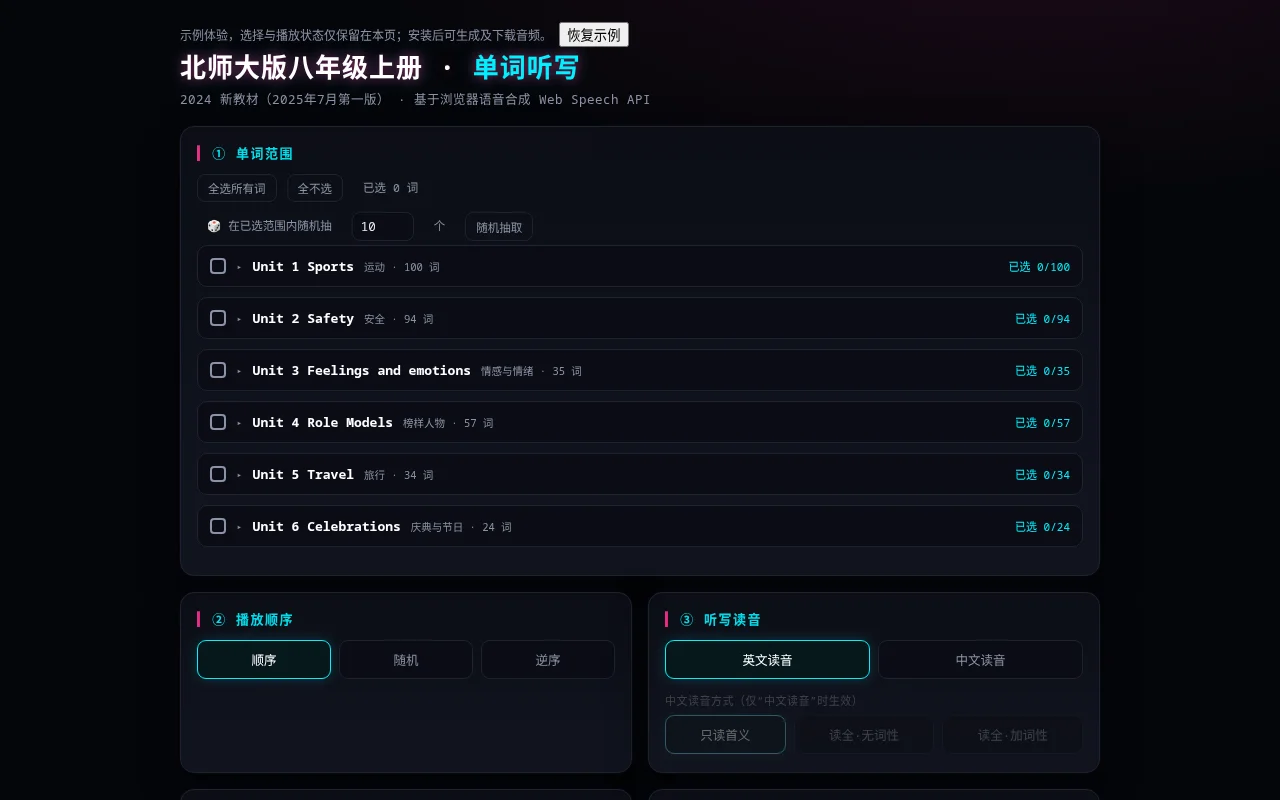
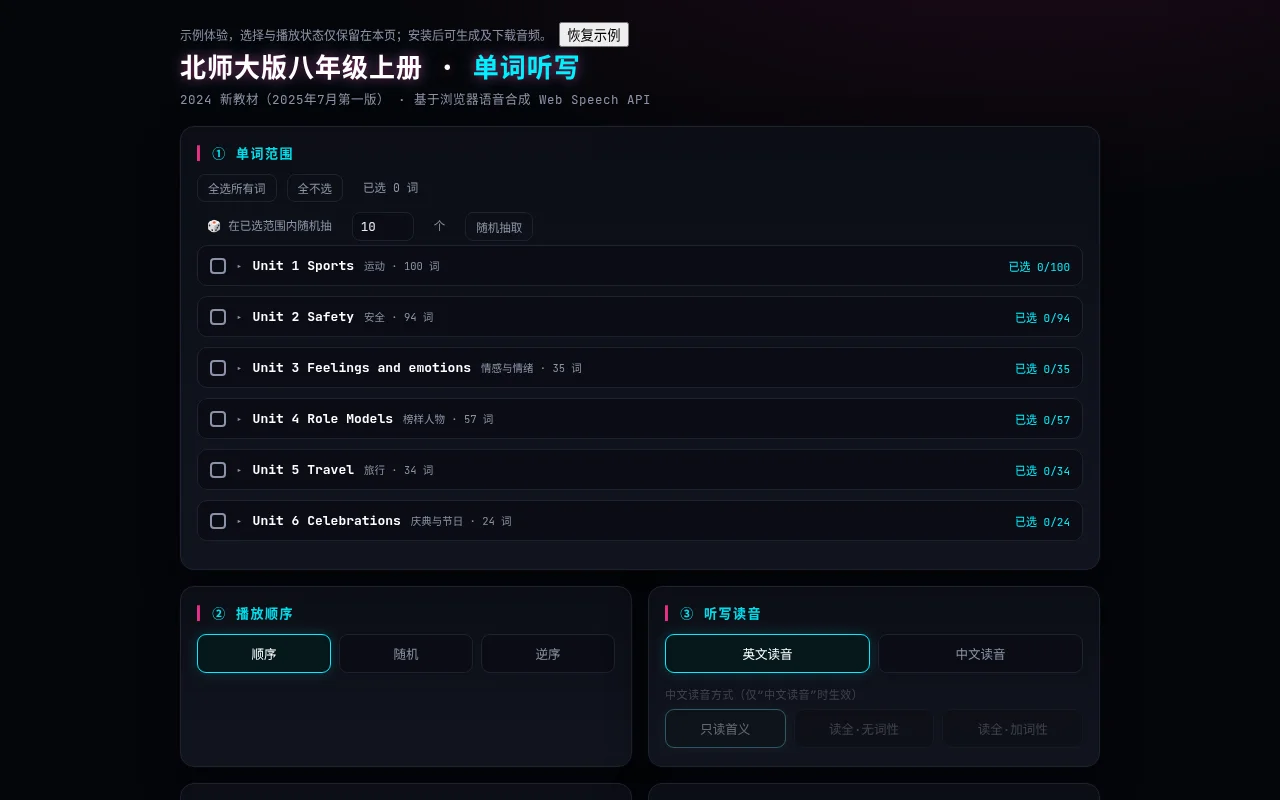
Match dictation typography

diff --git a/wb1024-c272-b7ca9910/showcase/preview.html b/wb1024-c272-b7ca9910/showcase/preview.html
@@ -6,7 +6,7 @@
 <title>北师大版八年级上册 · 单词听写</title>
 
 
-<style>
[1 lines of base64/hex data omitted]
   :root{
     --bg:#05060a;
     --panel:#0c0e16;

diff --git a/wb1024-c272-b7ca9910/src/app.js b/wb1024-c272-b7ca9910/src/app.js
@@ -1,3 +1,4 @@
+const font=document.createElement("style");font.textContent=`@font-face{font-family:"JetBrains Mono";font-style:normal;font-weight:400 800;font-display:swap;src:url(${new URL("../jetbrains-mono.woff2",import.meta.url).href}) format("woff2")}`;document.head.append(font);
 const style=document.createElement("style");style.textContent="\n  :root{\n    --bg:#05060a;\n    --panel:#0c0e16;\n    --panel2:#11141f;\n    --pink:#FF2E93;\n    --cyan:#00F0FF;\n    --line:#1d2230;\n    --txt:#e8ecf5;\n    --dim:#8a93a8;\n    --ok:#39ff88;\n  }\n  *{box-sizing:border-box}\n  html,body{margin:0;padding:0;background:var(--bg);color:var(--txt);\n    font-family:\"JetBrains Mono\",ui-monospace,SFMono-Regular,Menlo,Consolas,monospace;}\n  body{\n    background:\n      radial-gradient(1200px 600px at 80% -10%, rgba(255,46,147,.12), transparent 60%),\n      radial-gradient(1000px 500px at -10% 110%, rgba(0,240,255,.10), transparent 60%),\n      var(--bg);\n    min-height:100vh;padding:22px 14px 60px;\n  }\n  .wrap{max-width:920px;margin:0 auto;}\n  h1{\n    font-size:26px;font-weight:800;letter-spacing:1px;margin:0 0 4px;\n    color:#fff;text-shadow:0 0 12px rgba(255,46,147,.55),0 0 22px rgba(0,240,255,.25);\n  }\n  h1 .accent{color:var(--cyan);}\n  .sub{color:var(--dim);font-size:12.5px;margin-bottom:18px;letter-spacing:.5px}\n  .panel{\n    background:linear-gradient(180deg,var(--panel),var(--panel2));\n    border:1px solid var(--line);border-radius:14px;padding:16px 16px 18px;margin-bottom:16px;\n    box-shadow:0 0 0 1px rgba(255,255,255,.02), 0 14px 40px rgba(0,0,0,.45);\n  }\n  .panel h2{\n    font-size:13px;font-weight:700;letter-spacing:1.5px;color:var(--cyan);\n    margin:0 0 12px;text-transform:uppercase;opacity:.92;\n  }\n  .panel h2::before{content:\"▍\";color:var(--pink);margin-right:6px}\n  /* units + 单词级选择 */\n  .units{display:block;margin-top:4px}\n  .unit-block{border:1px solid var(--line);border-radius:10px;margin-bottom:10px;background:#0a0c14;overflow:hidden}\n  .unit-head{display:flex;align-items:center;gap:10px;padding:11px 12px;cursor:pointer;user-select:none;transition:.15s}\n  .unit-head:hover{background:#0e1119}\n  .unit-head .tri{width:16px;height:16px;border:2px solid var(--dim);border-radius:4px;flex:0 0 auto;position:relative;cursor:pointer;transition:.12s}\n  .unit-head .tri.on{border-color:var(--pink);background:var(--pink)}\n  .unit-head .tri.on::after{content:\"\";position:absolute;left:4px;top:1px;width:5px;height:9px;border:solid #05060a;border-width:0 2px 2px 0;transform:rotate(42deg)}\n  .unit-head .tri.some{border-color:var(--cyan);background:var(--cyan)}\n  .unit-head .tri.some::after{content:\"\";position:absolute;left:3px;top:6px;width:8px;height:2px;background:#05060a}\n  .unit-head .caret{color:var(--dim);font-size:11px;transition:transform .15s;flex:0 0 auto}\n  .unit-block.open .caret{transform:rotate(90deg)}\n  .unit-head .uname{font-size:13px;font-weight:700;color:#fff}\n  .unit-head .usub{color:var(--dim);font-size:10.5px}\n  .unit-head .ucount{margin-left:auto;color:var(--cyan);font-size:11px;white-space:nowrap}\n  .unit-body{display:none;padding:8px 12px 12px;border-top:1px solid var(--line)}\n  .unit-block.open .unit-body{display:block}\n  .wordgrid{display:grid;grid-template-columns:repeat(2,1fr);gap:5px 16px}\n  .w{display:flex;align-items:baseline;gap:7px;font-size:12px;cursor:pointer;padding:3px 4px;border-radius:6px;line-height:1.3}\n  .w:hover{background:#0e1119}\n  .w input{accent-color:var(--pink);flex:0 0 auto;margin-top:2px}\n  .w .we{color:var(--txt);font-weight:700;word-break:break-word}\n  .w .wz{color:var(--dim);font-size:10.5px;word-break:break-word}\n  @media(max-width:640px){.wordgrid{grid-template-columns:1fr}}\n  .row-actions{margin-top:10px;display:flex;gap:10px;flex-wrap:wrap}\n  .mini{\n    background:transparent;border:1px solid var(--line);color:var(--dim);font-family:inherit;\n    font-size:11.5px;padding:5px 10px;border-radius:8px;cursor:pointer;transition:.15s;\n  }\n  .mini:hover{color:var(--cyan);border-color:var(--cyan)}\n  /* segmented */\n  .seg{display:flex;flex-wrap:wrap;gap:8px}\n  .opt{\n    border:1px solid var(--line);background:#0a0c14;color:var(--dim);font-family:inherit;\n    font-size:12.5px;padding:9px 14px;border-radius:9px;cursor:pointer;transition:.15s;flex:1 1 auto;\n    text-align:center;min-width:84px;\n  }\n  .opt:hover{border-color:#2a3145;color:var(--txt)}\n  .opt.on{border-color:var(--cyan);color:#fff;background:#06181c;box-shadow:0 0 14px rgba(0,240,255,.18)}\n  .submode{margin-top:4px}\n  .submode.dim{opacity:.36;pointer-events:none;filter:grayscale(.5)}\n  .grid2{display:grid;grid-template-columns:1fr 1fr;gap:16px}\n  @media(max-width:640px){.grid2{grid-template-columns:1fr}}\n  label.fld{display:block;font-size:11px;color:var(--dim);margin:0 0 7px;letter-spacing:.5px}\n  select,input[type=range]{font-family:inherit}\n  select{\n    width:100%;background:#0a0c14;color:var(--txt);border:1px solid var(--line);\n    padding:9px 10px;border-radius:9px;font-size:13px;\n  }\n  .range-row{display:flex;align-items:center;gap:12px}\n  input[type=range]{flex:1;accent-color:var(--pink)}\n  .range-val{color:var(--cyan);font-weight:700;min-width:42px;text-align:right;font-size:13px}\n  /* stage */\n  .stage{\n    text-align:center;padding:26px 16px 22px;position:relative;overflow:hidden;\n  }\n  .counter{font-size:13px;color:var(--dim);letter-spacing:1px}\n  .counter b{color:var(--cyan);font-size:15px}\n  .bigword{\n    font-size:40px;font-weight:800;margin:14px 0 6px;color:#fff;min-height:48px;\n    text-shadow:0 0 16px rgba(0,240,255,.35);\n    word-break:break-word;\n  }\n  .bigword.zh{color:var(--pink);text-shadow:0 0 16px rgba(255,46,147,.4)}\n  .ans{\n    margin-top:6px;font-size:16px;color:var(--ok);min-height:22px;letter-spacing:.5px;\n  }\n  .ans .en{color:#fff;font-weight:700}\n  .ans .zh{color:var(--dim)}\n  .ans.hidden{visibility:hidden}\n  .cd{\n    margin-top:14px;font-size:12.5px;color:var(--dim);letter-spacing:1px;\n  }\n  .cd b{color:var(--pink);font-size:15px}\n  .bar{height:5px;background:#0a0c14;border:1px solid var(--line);border-radius:6px;margin-top:14px;overflow:hidden}\n  .bar > i{display:block;height:100%;width:0;background:linear-gradient(90deg,var(--cyan),var(--pink));transition:width .25s linear}\n  /* controls */\n  .ctrls{display:flex;flex-wrap:wrap;gap:10px;justify-content:center;margin-top:4px}\n  .btn{\n    font-family:inherit;font-size:13px;font-weight:700;letter-spacing:.5px;cursor:pointer;\n    border-radius:10px;padding:12px 16px;border:1px solid var(--line);background:#0a0c14;color:var(--txt);\n    transition:.15s;flex:1 1 auto;min-width:96px;\n  }\n  .btn:hover{border-color:var(--cyan);color:var(--cyan)}\n  .btn.primary{background:linear-gradient(180deg,var(--pink),#c81f73);border-color:var(--pink);color:#fff;\n    box-shadow:0 0 18px rgba(255,46,147,.35)}\n  .btn.primary:hover{color:#fff;filter:brightness(1.08)}\n  .btn:disabled{opacity:.4;cursor:not-allowed;border-color:var(--line);color:var(--dim)}\n  .status{text-align:center;color:var(--dim);font-size:12px;margin-top:12px;letter-spacing:1px}\n  .status b{color:var(--cyan)}\n  .warn{color:#ffcf5a;font-size:11.5px;margin-top:10px;line-height:1.5;display:none}\n  .foot{color:var(--dim);font-size:11px;text-align:center;margin-top:22px;line-height:1.7}\n  .foot code{color:var(--cyan)}\n";document.head.append(style);document.getElementById("app").innerHTML="\n<div class=\"wrap\">\n  <h1>北师大版八年级上册 · <span class=\"accent\">单词听写</span></h1>\n  <div class=\"sub\">2024 新教材（2025年7月第一版） · 基于浏览器语音合成 Web Speech API</div>\n\n  <!-- 设置 -->\n  <div class=\"panel\">\n    <h2>① 单词范围</h2>\n    <div class=\"row-actions\">\n      <button class=\"mini\" id=\"selAll\">全选所有词</button>\n      <button class=\"mini\" id=\"selNone\">全不选</button>\n      <span class=\"mini\" id=\"unitCount\" style=\"border:none;cursor:default\">已选 0 词</span>\n    </div>\n    <div class=\"row-actions\">\n      <span class=\"mini\" style=\"border:none;cursor:default\">🎲 在已选范围内随机抽</span>\n      <input type=\"number\" id=\"randN\" min=\"1\" max=\"322\" value=\"10\"\n             style=\"width:62px;background:#0a0c14;color:var(--txt);border:1px solid var(--line);\n                    border-radius:8px;padding:5px 8px;font-family:inherit;font-size:12.5px\">\n      <span class=\"mini\" style=\"border:none;cursor:default\">个</span>\n      <button class=\"mini\" id=\"randPick\">随机抽取</button>\n    </div>\n    <div class=\"units\" id=\"units\"></div>\n  </div>\n\n  <div class=\"grid2\">\n    <div class=\"panel\">\n      <h2>② 播放顺序</h2>\n      <div class=\"seg\" id=\"orderSeg\">\n        <div class=\"opt on\" data-v=\"seq\">顺序</div>\n        <div class=\"opt\" data-v=\"rand\">随机</div>\n        <div class=\"opt\" data-v=\"rev\">逆序</div>\n      </div>\n    </div>\n    <div class=\"panel\">\n      <h2>③ 听写读音</h2>\n      <div class=\"seg\" id=\"modeSeg\">\n        <div class=\"opt on\" data-v=\"en\">英文读音</div>\n        <div class=\"opt\" data-v=\"zh\">中文读音</div>\n      </div>\n      <div class=\"submode dim\" id=\"zhModeWrap\">\n        <label class=\"fld\" style=\"margin-top:13px\">中文读音方式（仅“中文读音”时生效）</label>\n        <div class=\"seg\" id=\"zhModeSeg\">\n          <div class=\"opt on\" data-v=\"orig\">只读首义</div>\n          <div class=\"opt\" data-v=\"full\">读全·无词性</div>\n          <div class=\"opt\" data-v=\"pos\">读全·加词性</div>\n        </div>\n      </div>\n    </div>\n  </div>\n\n  <div class=\"grid2\">\n    <div class=\"panel\">\n      <h2>④ 朗读遍数 / 停顿</h2>\n      <label class=\"fld\">每个词朗读几遍（默认 3 遍）</label>\n      <div class=\"range-row\">\n        <input type=\"range\" id=\"repeats\" min=\"1\" max=\"5\" step=\"1\" value=\"3\">\n        <span class=\"range-val\" id=\"repeatsVal\">3 遍</span>\n      </div>\n      <label class=\"fld\">重复朗读之间的停顿（默认 2 秒）</label>\n      <div class=\"range-row\">\n        <input type=\"range\" id=\"repeatGap\" min=\"0\" max=\"10\" step=\"1\" value=\"2\">\n        <span class=\"range-val\" id=\"repeatGapVal\">2 秒</span>\n      </div>\n      <label class=\"fld\">朗读后到下一条的等待（默认 3 秒）</label>\n      <div class=\"range-row\">\n        <input type=\"range\" id=\"interval\" min=\"1\" max=\"10\" step=\"1\" value=\"3\">\n        <span class=\"range-val\" id=\"intervalVal\">3 秒</span>\n      </div>\n    </div>\n    <div class=\"panel\">\n      <h2>⑤ 语速 / 选项</h2>\n      <label class=\"fld\">朗读语速</label>\n      <div class=\"range-row\">\n        <input type=\"range\" id=\"rate\" min=\"0.5\" max=\"1.5\" step=\"0.1\" value=\"1\">\n        <span class=\"range-val\" id=\"rateVal\" style=\"min-width:48px\">1.0×</span>\n      </div>\n      <label style=\"display:flex;align-items:center;gap:9px;margin-top:14px;font-size:12.5px;color:var(--dim);cursor:pointer\">\n        <input type=\"checkbox\" id=\"autoReveal\" checked style=\"accent-color:var(--pink)\">\n        朗读后自动显示答案（便于自查）\n      </label>\n    </div>\n  </div>\n\n  <div class=\"panel\">\n    <h2>⑥ 生成听写语音（导出音频文件）</h2>\n    <label class=\"fld\">按当前配置把整条听写拼成一条音频：单词范围 / 顺序 / 读几遍 / 停顿 / 间隔 / 读音（导出为标准语速）。生成后可预览、下载 MP3 / WAV，拷到手机或播放器即可</label>\n    <div class=\"row-actions\">\n      <button class=\"mini\" id=\"genBtn\">🎧 生成听写语音</button>\n      <span class=\"mini\" id=\"genInfo\" style=\"border:none;cursor:default\">尚未生成</span>\n    </div>\n    <div id=\"genBarWrap\" style=\"display:none;margin-top:10px;height:6px;background:#0a0c14;border:1px solid var(--line);border-radius:6px;overflow:hidden\">\n      <div id=\"genBar\" style=\"height:100%;width:0;background:linear-gradient(90deg,var(--pink),var(--cyan));transition:width .2s\"></div>\n    </div>\n    <div id=\"genOut\" style=\"display:none;margin-top:12px\">\n      <audio id=\"genPlayer\" controls style=\"width:100%;height:38px\"></audio>\n      <div class=\"row-actions\" style=\"margin-top:9px\">\n        <a class=\"mini\" id=\"genDlMp3\" style=\"text-decoration:none\">⬇ 下载 MP3</a>\n        <a class=\"mini\" id=\"genDlWav\" style=\"text-decoration:none;opacity:.7\">⬇ 下载 WAV（无损）</a>\n      </div>\n    </div>\n  </div>\n\n  <!-- 听写台 -->\n  <div class=\"panel stage\">\n    <div class=\"counter\">第 <b id=\"curIdx\">0</b> / <span id=\"totIdx\">0</span> 词</div>\n    <div class=\"bigword\" id=\"bigword\">准备就绪</div>\n    <div class=\"ans hidden\" id=\"ans\"></div>\n    <div class=\"cd\" id=\"cd\">—</div>\n    <div class=\"bar\"><i id=\"bar\"></i></div>\n  </div>\n\n  <div class=\"ctrls\">\n    <button class=\"btn primary\" id=\"startBtn\">▶ 开始 / 继续</button>\n    <button class=\"btn\" id=\"pauseBtn\" disabled>⏸ 暂停</button>\n    <button class=\"btn\" id=\"stopBtn\" disabled>■ 停止</button>\n    <button class=\"btn\" id=\"prevBtn\">◀ 上一个</button>\n    <button class=\"btn\" id=\"nextBtn\">下一个 ▶</button>\n    <button class=\"btn\" id=\"replayBtn\">🔁 重听</button>\n    <button class=\"btn\" id=\"revealBtn\">👁 显示答案</button>\n  </div>\n  <div class=\"status\" id=\"status\">状态：<b>待命</b></div>\n  <div class=\"warn\" id=\"warn\"></div>\n\n  <div class=\"foot\">\n    提示：如需增删单词，编辑本文件顶部的 <code>WORDS</code> 常量即可（每个单元含 <code>{en, zh}</code>）。<br>\n    语音依赖系统已安装的语言包；中文读音需系统含中文语音，英文读音需含英文语音。\n  </div>\n</div>\n\n<!-- 离线语音素材（供「生成听写语音」使用）与 MP3 编码库 -->\n";
 function lamejs(){function X(c){return new Int32Array(c)}function K(c){return new Float32Array(c)}function ca(c){if(1==c.length)return K(c[0]);var k=c[0];c=c.slice(1);for(var n=[],u=0;u<k;u++)n.push(ca(c));return n}function Ia(c){if(1==c.length)return X(c[0]);var k=c[0];c=c.slice(1);for(var n=[],u=0;u<k;u++)n.push(Ia(c));return n}function dc(c){if(1==c.length)return new Int16Array(c[0]);var k=c[0];c=c.slice(1);for(var n=[],u=0;u<k;u++)n.push(dc(c));return n}function Ob(c){if(1==c.length)return Array(c[0]);
 var k=c[0];c=c.slice(1);for(var n=[],u=0;u<k;u++)n.push(Ob(c));return n}function ra(c){this.ordinal=c}function G(c){this.ordinal=c}function la(c){this.ordinal=function(){return c}}function mc(){this.getLameVersion=function(){return"3.98.4"};this.getLameShortVersion=function(){return"3.98.4"};this.getLameVeryShortVersion=function(){return"LAME3.98r"};this.getPsyVersion=function(){return"0.93"};this.getLameUrl=function(){return"http://www.mp3dev.org/"};this.getLameOsBitness=function(){return"32bits"}}
